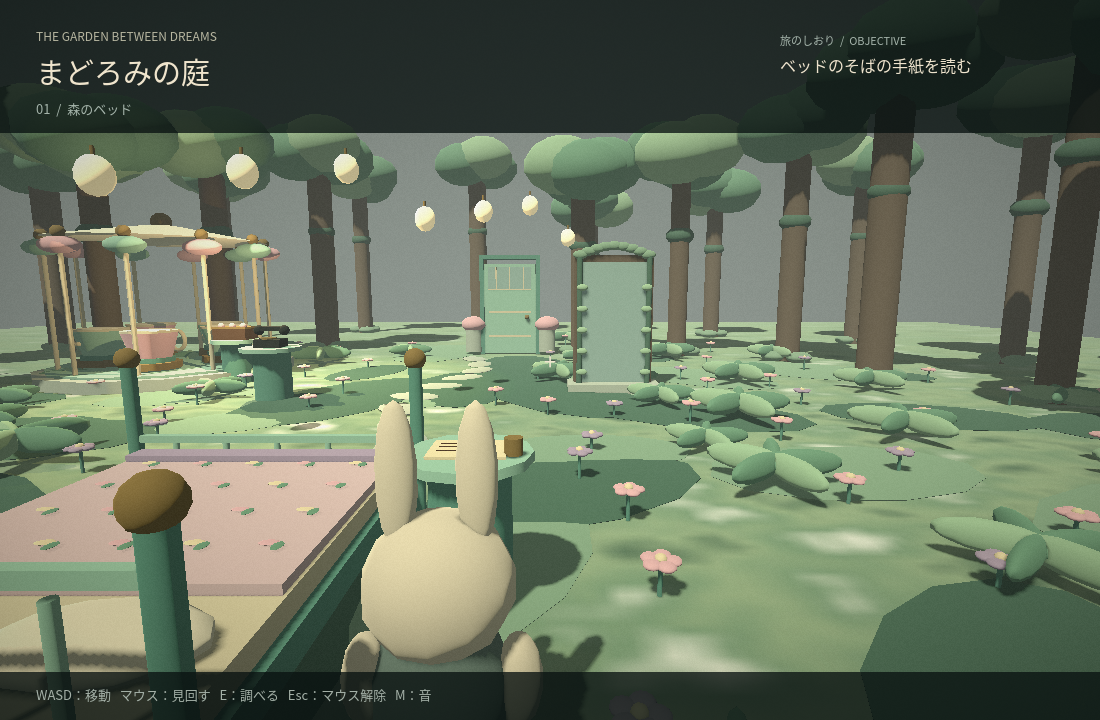
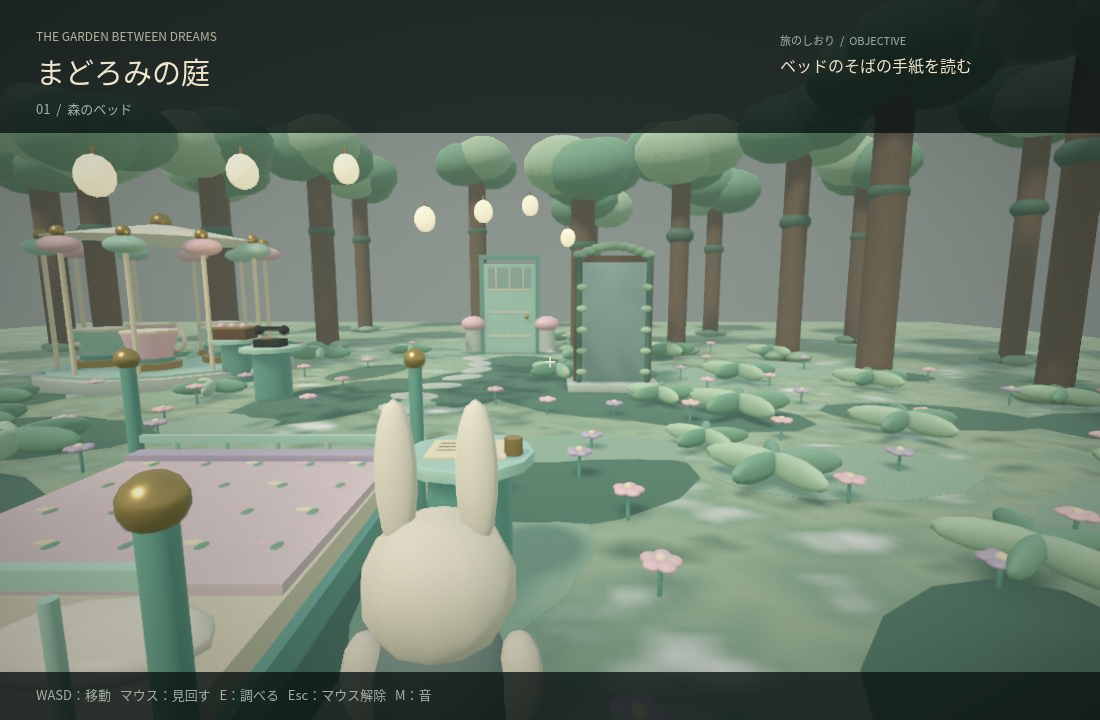
Add soft overcast Forward+ lighting, leaf shadows and contact shading

diff --git a/README.md b/README.md
@@ -32,7 +32,7 @@ godot --path .
 godot --headless --path . --script res://tests/smoke.gd
 ```
 
-50項目で、ベッドでの目覚め、三人称への切替、手がかりの順序、対象への照準、鍵と扉、再開、移動・衝突、カメラ、UI を確認します。描画やOSのマウス捕捉は別途グラフィカル環境で確認します。
+55項目で、ベッドでの目覚め、三人称への切替、手がかりの順序、対象への照準、鍵と扉、再開、移動・衝突、カメラ、UI を確認します。描画やOSのマウス捕捉は別途グラフィカル環境で確認します。
 
 クラウドでホームに書き込めない場合:
 
@@ -55,3 +55,15 @@ godot --headless --path . --script res://tests/smoke.gd
 ## 素材
 
 モデル、花柄、苔のテクスチャ、音はコードで生成しています。参考写真や他作品の素材は含みません。Godot プロジェクト形式の配布で、単独実行ファイルは含みません。
+
+## 光と影
+
+標準の描画方式は **Forward+** です。曇り空からの環境光、柔らかい太陽の影、葉の透過形状による木漏れ日、SSAO による接地感、SSIL による周囲からの間接光、薄いボリューム霧を使用します。布・苔・樹皮の細かな凹凸と、金属や陶器の反射も調整しています。形状は引き続きローポリゴンです。
+
+Forward+ に対応した GPU が必要です。起動できない場合や負荷を下げたい場合は、Godot の描画方式を Compatibility にするか、次のコマンドで起動します。Compatibility では SSAO・SSIL・ボリューム霧は使わず、空・影・素材・通常の霧で描画します。
+
+```sh
+godot --path . --rendering-method gl_compatibility
+```
+
+Linux クラウドでの Forward+ 描画検証には、作業領域へ展開した Mesa ソフトウェア Vulkan ドライバーを使用しました。これは配布 ZIP には含みません。手元の PC では通常、GPU のドライバーが使用されます。
